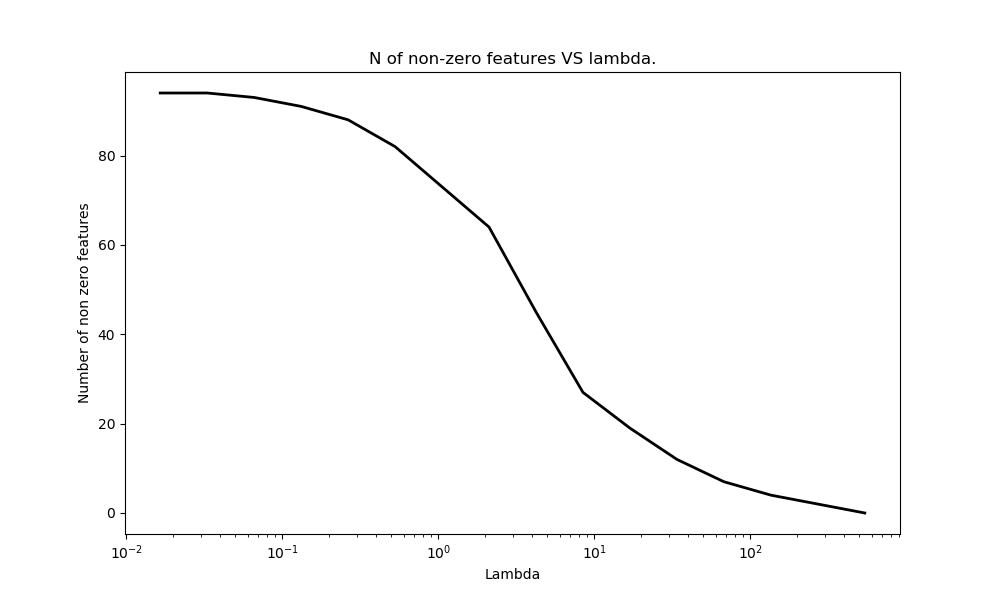
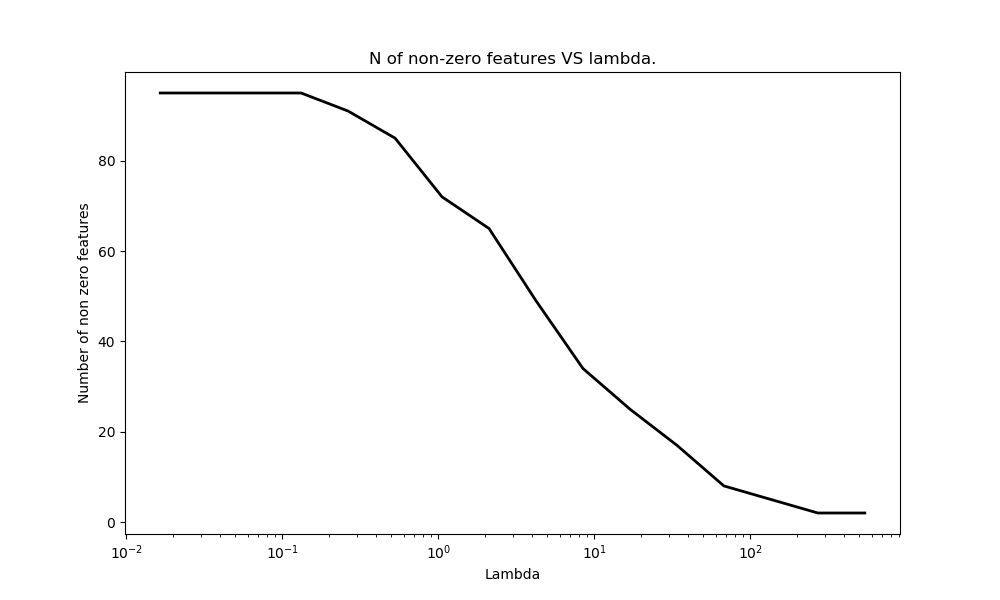
Fix missing normalization factor n in coordinate descent code.

diff --git a/HW2/HW2_code_solutions/coordinate_descent.py b/HW2/HW2_code_solutions/coordinate_descent.py
@@ -31,7 +31,7 @@ def coordinate_descent(x, y, lambd, tolerance=0.001, initW=None, convergeFast=Tr
     Returns
     -------
     w: `np.array`
-        New feature weights estimates. 
+        New feature weights estimates.
     """
     n, d = x.shape
 
@@ -54,7 +54,7 @@ def coordinate_descent(x, y, lambd, tolerance=0.001, initW=None, convergeFast=Tr
             oldW = w.copy()
 
         # Algorithm 1 implementation
-        b = np.mean(y - np.dot(x, w))
+        b = np.mean(y - np.dot(x, w)) / n
         for k in range(d):
             xk = x[:, k]
             ak = squaredX[:,k].sum()
@@ -62,7 +62,7 @@ def coordinate_descent(x, y, lambd, tolerance=0.001, initW=None, convergeFast=Tr
             # ck sum must ignore k-th dimension so we set it to zero and use
             # dot product. This matches the definition of w too, so we can
             # leave it wth zero value unless smaller than -lambda or bigger
-            # than lambda anyhow. 
+            # than lambda anyhow.
             w[k] = 0
             delta = 0
             ck = 2.0 * np.dot(xk, y - (b + np.dot(x, w)))
@@ -152,14 +152,14 @@ def generate_data(n, d, k, sigma):
         w_j = j/k if j in {1,...,k}
         w_j = 0 otherwise
     and epsilon is random Gussian noise with the given sigma and X are also
-    drawn from a Normal distribution with sigma 1. 
+    drawn from a Normal distribution with sigma 1.
 
     Parameters
     ----------
     n : `int`
         Number of samples drawn at random from the model.
     d : `int`
-        Dimensionality of the feature space. 
+        Dimensionality of the feature space.
     k : `int`
         Cutoff point after which elements of w are zero.
 
@@ -168,7 +168,7 @@ def generate_data(n, d, k, sigma):
     x : `np.array`
         n-by-d sized array of data.
     y : `np.array`
-        Vector of n model values. 
+        Vector of n model values.
     """
     # gaussian noise and data
     eps = np.random.normal(0, sigma**2, size=n)
@@ -373,7 +373,7 @@ def A5ab(tolerance=0.001):
         lambdas.append(lambd)
         sqrErrTrain.append(mean_square_error(xTrain.values, yTrain.values, w))
         sqrErrTest.append(mean_square_error(xTest.values, yTest.values, w))
-        wAgePct12.append(w[idxAgePct12])    
+        wAgePct12.append(w[idxAgePct12])
         wPctSoc.append(w[idxPctSoc])
         wPctUrban.append(w[idxPctUrban])
         wAgePct65.append(w[idxAgePct65])
@@ -395,7 +395,7 @@ def A5ab(tolerance=0.001):
     plot(ax2, lambdas, wHouseholdsize, label="Householdsize", xlabel="Lambda",
          ylabel="Weight value", title="Number of variables VS lambda.", lc=c[4])
     ax2.legend()
-    
+
     fig3, ax3 = plt.subplots(figsize=(10, 6))
     plot(ax3, lambdas, sqrErrTrain, label="MSE Train", lc="gray")
     plot(ax3, lambdas, sqrErrTest, label="MSE Test", xlabel="Lambda",
@@ -406,7 +406,7 @@ def A5ab(tolerance=0.001):
 
 def A5cd(tolerance=0.001):
     """Sets the data up as instructed by problem A5 and runs coordinate
-    descent Lasso algorithm with regularization value of 30. 
+    descent Lasso algorithm with regularization value of 30.
 
     Prints the weights and the names of the features with most positive, most
     negative value and a sorted table of features with non-zero values.
